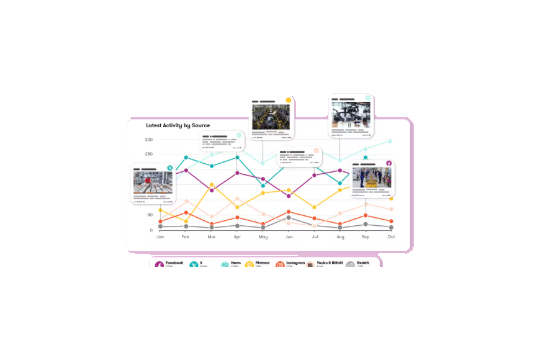
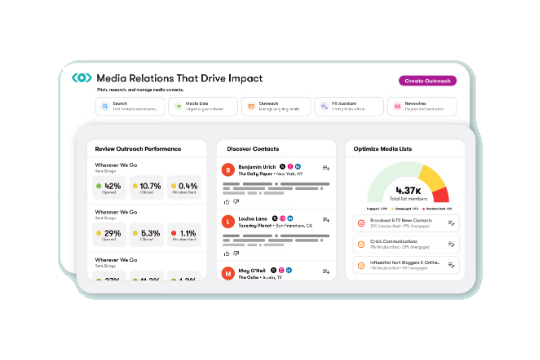
Meltwater first; replace activity report screen with 3 new screens
Claude-Session: https://claude.ai/code/session_01VctHjMP7txnqP7GLp3r3E1

Changed region(s): [[0.0889, 0.1528, 0.9185, 0.8556]]

diff --git a/src/components/Projects/Projects.tsx b/src/components/Projects/Projects.tsx
@@ -12,6 +12,30 @@ const Projects = () => {
       </h2>
       <div className="md:flex md:space-x-10 lg:space-x-24 mt-10 w-[80%] md:w-full">
         <div className="relative mb-14 md:mb-0 md:w-2/4">
+          <MeltwaterSlider />
+          <div className="py-4">
+            <a
+              href="https://www.meltwater.com/en/product-tours"
+              target="_blank"
+              rel="noopener noreferrer"
+              className="text-xl text-slate-400 hover:text-teal"
+            >
+              Meltwater • (SaaS platform)
+            </a>
+            <p className="text-lg">
+              Media, social, and influencer intelligence platform used by PR
+              and marketing teams worldwide. I worked on the Newsletters
+              product, the builder that turns media coverage into branded
+              email digests.
+            </p>
+            <p className="text-sm text-zinc-500 mt-2">
+              Screenshots from Meltwater's public product tours. All rights
+              belong to Meltwater.
+            </p>
+          </div>
+        </div>
+
+        <div className="relative mb-14 md:mb-0 md:w-2/4">
           <SofiaSlider />
           <div className="py-4">
             <a
@@ -50,30 +74,6 @@ const Projects = () => {
                 Android
               </a>
             </div>
-          </div>
-        </div>
-
-        <div className="relative mb-14 md:mb-0 md:w-2/4">
-          <MeltwaterSlider />
-          <div className="py-4">
-            <a
-              href="https://www.meltwater.com/en/product-tours"
-              target="_blank"
-              rel="noopener noreferrer"
-              className="text-xl text-slate-400 hover:text-teal"
-            >
-              Meltwater • (SaaS platform)
-            </a>
-            <p className="text-lg">
-              Media, social, and influencer intelligence platform used by PR
-              and marketing teams worldwide. I worked on the Newsletters
-              product, the builder that turns media coverage into branded
-              email digests.
-            </p>
-            <p className="text-sm text-zinc-500 mt-2">
-              Screenshots from Meltwater's public product tours. All rights
-              belong to Meltwater.
-            </p>
           </div>
         </div>
       </div>

diff --git a/src/components/Projects/MeltwaterSlider.tsx b/src/components/Projects/MeltwaterSlider.tsx
@@ -21,7 +21,9 @@ const titles = [
   "Influencer discovery",
   "Influencer campaign analytics",
   "Media coverage dashboard",
-  "Shareable activity reports",
+  "Media relations & outreach",
+  "Brand trends across AI answers",
+  "AI response accuracy check",
 ];
 
 const INTERVAL_MS = 3500;
